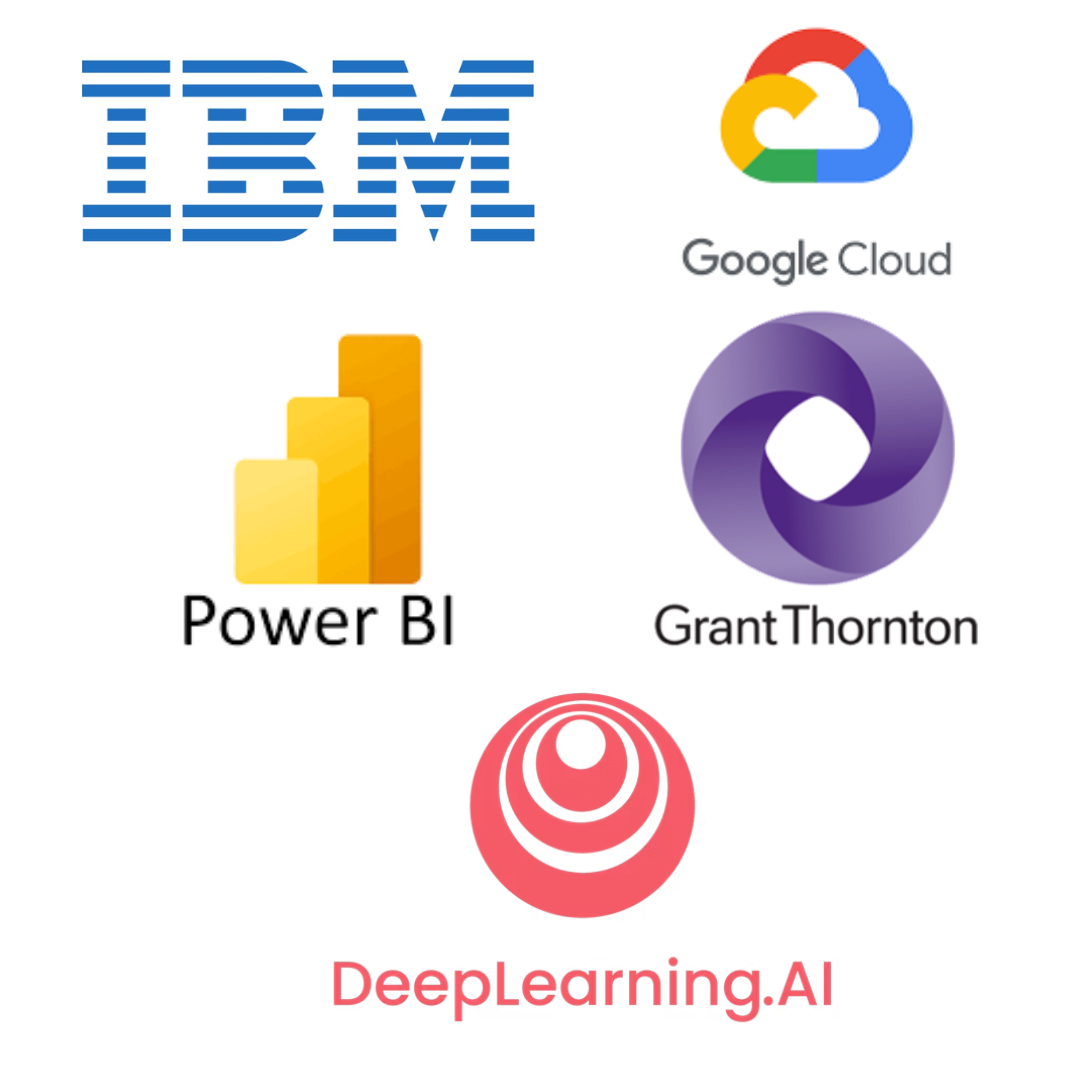
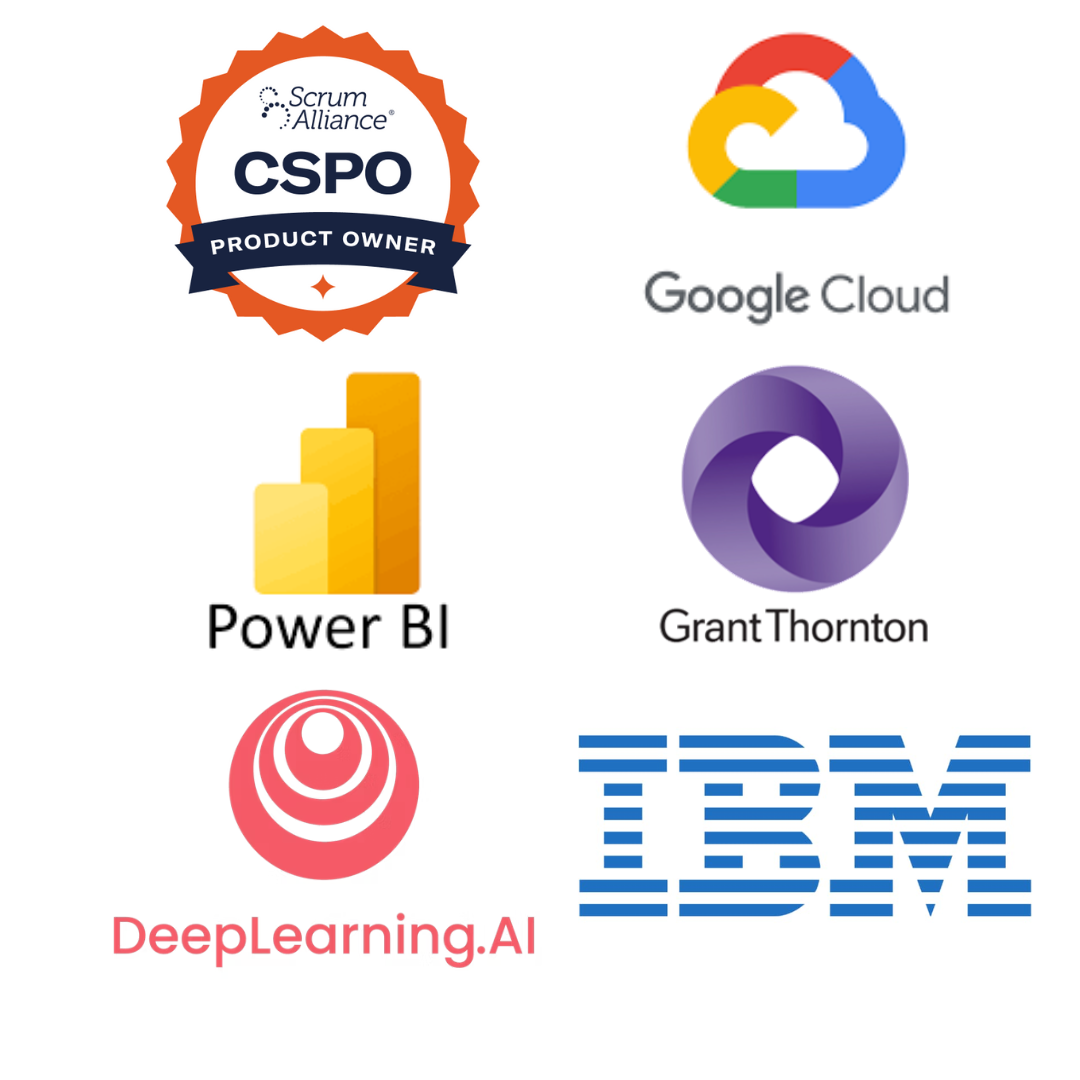
updates

diff --git a/resources/certifications.html b/resources/certifications.html
@@ -2,6 +2,9 @@
     <div class="content-text">        
         <h2 class="fw-bold">Certifications</h2>
         <ul>
+            <li>Certified Scrum Product Owner (CSPO)</li>
+            <li>Generative AI for Supply Chain Professional Certificate - Council of Supply Chain Management Professionals</li>
+            <li>Lean Six Sigma Black Belt Certification - LinkedIn Learning</li>
             <li>Lean Six Sigma Green Belt Certification - Grant Thornton</li>
             <li>Data Visualization with Power BI - Great Learning</li>
             <li>Database Management Essentials - University of Colorado</li>
